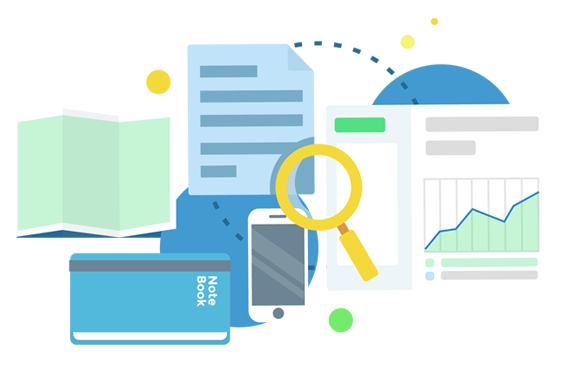
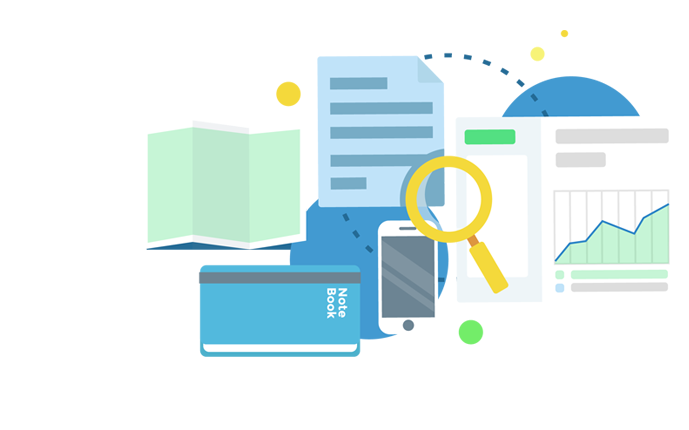
工程咨询首页动效完成

diff --git a/WEB-INF/t/cms/gczx/gczx/index/index.html b/WEB-INF/t/cms/gczx/gczx/index/index.html
@@ -11,6 +11,7 @@
 <script src="${resSys}/front.js" type="text/javascript"></script>
 <script type="text/javascript" src="/${res}/js/jquery.SuperSlide.js"></script>
 <link href="/${res}/css/index.css" rel="stylesheet"/>
+<link href="/${res}/css/donghua.css" rel="stylesheet"/>
 <link href="/${res}/css/icon.css" rel="stylesheet"/>
 <link rel="stylesheet" href="/${res}/css/swiper.min.css">
 <script src="/${res}/css/swiper.min.js"></script>
@@ -25,14 +26,14 @@
 <body class="index">
 [#include "../include/top.html"/]
 [#include "../include/header.html"/]
-<div class="banner" id="banner">
+<!--<div class="banner" id="banner">
     <div class="item-w clearfix">
         <div class="item-cnt clearfix" id="itemCnt">
             <div class="item on" style="background-image: url(/${res}/imgs/ad-2.jpg);"></div>
-            <!--<div class="item" style="background-image: url(/${res}/imgs/ad-2.jpg);"></div>-->
+            &lt;!&ndash;<div class="item" style="background-image: url(/${res}/imgs/ad-2.jpg);"></div>&ndash;&gt;
             <div class="item" style="background-image: url(/${res}/imgs/ad-3.jpg);"></div>
             <div class="item" style="background-image: url(/${res}/imgs/ad-4.jpg);"></div>
-            <!--<div class="item" style="background-image: url(/${res}/imgs/ad-5.jpg);"></div>-->
+            &lt;!&ndash;<div class="item" style="background-image: url(/${res}/imgs/ad-5.jpg);"></div>&ndash;&gt;
         </div>
         <div class="arrow arrow-l" id="arrowL"></div>
         <div class="arrow arrow-r" id="arrowR"></div>
@@ -40,8 +41,8 @@
             <div class="progress-bar-dian on"></div>
             <div class="progress-bar-dian"></div>
             <div class="progress-bar-dian"></div>
-           <!-- <div class="progress-bar-dian"></div>
-            <div class="progress-bar-dian"></div>-->
+           &lt;!&ndash; <div class="progress-bar-dian"></div>
+            <div class="progress-bar-dian"></div>&ndash;&gt;
         </div>
     </div>
 </div>
@@ -72,9 +73,160 @@
     idx += 1;
     itemGo();
   });
-</script>
+</script>-->
+<div id="banner">
+    <ul id="banner_img">
+        <li class="item1">
+            <div class="wrapper">
+                <div class="ad_txt">
+                    <h2>咨询研究</h2>
+                    <p>
+                        编制地方区域社会和经济发展规划、行业发展规划、产业发<br /><br />
+                        展规划、专题发展规划，开展新型城镇化、生态保护、农村<br /><br />
+                        产业融合、资源综合利用、大健康、创新创业、旅游等方面<br /><br />
+                        的研究咨询。
+                    </p>
+                </div>
+                <div class="ad_img">
+                    <img src="${res}/imgs/zxyjtu.png" width="506" height="404" alt="" />
+                </div>
+            </div>
+        </li>
+        <li class="item2">
+            <div class="wrapper">
+                <div class="ad_txt">
+                    <h2>专项规划</h2>
+                    <p>
+                        重点产业、扶贫攻坚、城镇化、民生、基础设施建设等各类<br /><br />
+                        专项规划的研究与编制。
+                    </p>
+                </div>
+                <div class="ad_img">
+                    <img src="${res}/imgs/zxghtu.png" width="506" height="404" alt="" />
+                </div>
+            </div>
+        </li>
+        <li class="item3">
+            <div class="wrapper">
+                <div class="ad_txt">
+                    <h2>报告/方案</h2>
+                    <p>
+                        为申报国家专项资金的项目编制可研报告、节能评估报告和<br /><br />
+                        资金申请报告及项目申报材料。<br />
+                    </p>
+                </div>
+                <div class="ad_img">
+                    <img src="${res}/imgs/bgfatu.png" width="506" height="404" alt="" />
+                </div>
+            </div>
+        </li>
+        <li class="item4">
+            <div class="wrapper">
+                <div class="ad_txt">
+                    <h2>工程造价</h2>
+                    <p>
+                        对建设项目工程造价的确定与控制提供专业服务，出具工程<br /><br />
+                        造价咨询报告。
+                    </p>
+                </div>
+                <div class="ad_img">
+                    <img src="${res}/imgs/gczjtu.png" width="506" height="338" alt="" />
+                </div>
+            </div>
+        </li>
+        <li class="item5">
+            <div class="wrapper">
+                <div class="ad_txt">
+                    <h2>科技成果评价</h2>
+                    <p>
+                        公司是国家行政机关认定的科技成果第三方评价试点单位，<br /><br />
+                        依据国家科技部《科技成果评价试点暂行办法》、吉林省<br /><br />
+                        科技成果评价试点工作方案》，为企业提供专业、权威的科<br /><br />
+                        技成果第三方评价。
+                    </p>
+                </div>
+                <div class="ad_img">
+                    <img src="${res}/imgs/kjcgpjtu.png" width="506" height="344" alt="" />
+                </div>
+            </div>
+        </li>
+        <li class="item6">
+            <div class="wrapper">
+                <div class="ad_txt">
+                    <h2>招标代理</h2>
+                    <p>
+                        承担各类工程招标代理；招标范围为货物、服务、咨询及工<br /><br />
+                        程招标的政府采购招标；同时，可从事总投资2亿元人民币<br /><br />
+                        以下（含2亿）的中央投资项目招标代理业务。
+                    </p>
 
-<div class="grid clearfix fwnr">
+                </div>
+                <div class="ad_img">
+                    <img src="${res}/imgs/zbdltu.png" width="506" height="404" alt="" />
+                </div>
+            </div>
+        </li>
+        <li class="item7">
+            <div class="wrapper">
+                <div class="ad_txt">
+                    <h2>众创空间</h2>
+                    <p>
+
+                    </p>
+
+                </div>
+                <div class="ad_img">
+                    <img src="${res}/imgs/zckjtu.png" width="506" height="404" alt="" />
+                </div>
+            </div>
+        </li>
+    </ul>
+    <div id="banner_ctr">
+        <div id="drag_ctr"></div>
+        <ul>
+            <li>咨询研究</li>
+            <li>专项规划</li>
+            <li>报告/方案</li>
+            <li>工程造价</li>
+            <li>科技成果评价</li>
+            <li>招标代理</li>
+            <li>众创空间</li>
+        </ul>
+        <div id="drag_arrow"></div>
+    </div>
+</div>
+<script type="text/javascript">
+    var curIndex = 0;
+    var time = 800;
+    var slideTime = 5000;
+    var adTxt = $("#banner_img>li>div>.ad_txt");
+    var adImg = $("#banner_img>li>div>.ad_img");
+    var int = setInterval("autoSlide()", slideTime);
+    $("#banner_ctr>ul>li[class!='first-item'][class!='last-item']").click(function () {
+        show($(this).index("#banner_ctr>ul>li[class!='first-item'][class!='last-item']"));
+        window.clearInterval(int);
+        int = setInterval("autoSlide()", slideTime);
+    });
+    function autoSlide() {
+        curIndex + 1 >= $("#banner_img>li").size() ? curIndex = -1 : false;
+        show(curIndex + 1);
+    }
+    function show(index) {
+        $.easing.def = "easeOutQuad";
+        $("#drag_ctr,#drag_arrow").stop(false, true).animate({ left: index * 143 }, 300);
+        $("#banner_img>li").eq(curIndex).stop(false, true).fadeOut(time);
+        adTxt.eq(curIndex).stop(false, true).animate({ top: "340px" }, time);
+        adImg.eq(curIndex).stop(false, true).animate({ right: "120px" }, time);
+        setTimeout(function () {
+            $("#banner_img>li").eq(index).stop(false, true).fadeIn(time);
+            adTxt.eq(index).children("p").css({ paddingTop: "50px", paddingBottom: "50px" }).stop(false, true).animate({ paddingTop: "0", paddingBottom: "0" }, time);
+            adTxt.eq(index).css({ top: "0", opacity: "0" }).stop(false, true).animate({ top: "170px", opacity: "1" }, time);
+            adImg.eq(index).css({ right: "-50px", opacity: "0" }).stop(false, true).animate({ right: "10px", opacity: "1" }, time);
+        }, 200)
+        curIndex = index;
+    }
+</script>
+<!--<div class="grid clearfix fwnr">
     <div class="container">
         <div class="tabs">
             <a href="javascript:;" class="active"><i class="iconfont icon-qingdan"></i><span>咨询研究</span></a>
@@ -84,7 +236,7 @@
             <a href="javascript:;"><i class="iconfont icon-guihua"></i><span>科技成果评价</span></a>
             <a href="javascript:;"><i class="iconfont icon-zhaobiao1"></i><span>招标代理</span></a>
             <a href="javascript:;"><i class="iconfont icon-ruku"></i><span>众创空间</span></a>
-            <!--<a href="javascript:;"><i class="iconfont icon-zijin"></i><span>专项资金</span></a>-->
+            &lt;!&ndash;<a href="javascript:;"><i class="iconfont icon-zijin"></i><span>专项资金</span></a>&ndash;&gt;
         </div>
         <div id="tabs-container" class="swiper-container swiper-container-horizontal">
             <div class="swiper-wrapper">
@@ -192,7 +344,7 @@
                         </div>
                     </div>
                 </div>
-                <!--<div class="swiper-slide">
+                &lt;!&ndash;<div class="swiper-slide">
                     <div class="content-slide">
                         <div class="list_fwnr clearfix">
                             <div class="pic"><img src="/${res}/imgs/3zxzj.jpg"></div>
@@ -206,7 +358,7 @@
                             </div>
                         </div>
                     </div>
-                </div>-->
+                </div>&ndash;&gt;
             </div>
         </div>
     </div>
@@ -304,7 +456,7 @@
 
     }
   });
-</script>
+</script>-->
 <!--<div id="banner">
     <ul id="banner_img">
         <li class="item1">

diff --git a/WEB-INF/t/cms/kjzx/kjzx/channel/column_menu_dxal.html b/WEB-INF/t/cms/kjzx/kjzx/channel/column_menu_dxal.html
@@ -1,0 +1,86 @@
+<!DOCTYPE HTML>
+<html>
+<meta name="viewport"
+      content="width=device-width, initial-scale=1.0, maximum-scale=1.0, minimum-scale=1.0, user-scalable=no">
+<meta http-equiv="Content-Type" content="text/html; charset=utf-8"/>
+<meta http-equiv="keywords" content="${channel.keywords!}"/>
+<meta http-equiv="description" content="${channel.description!}"/>
+<title>${channel.title!channel.name} - ${site.name}</title>
+<script src="${resSys}/jquery.js" type="text/javascript"></script>
+<script src="${resSys}/front.js" type="text/javascript"></script>
+<script type="text/javascript" src="/${res}/js/jquery.SuperSlide.js"></script>
+<link type="text/css" rel="stylesheet" href="/${res}/css/index.css"/>
+<link type="text/css" rel="stylesheet" href="/${res}/css/xwzx.css"/>
+<!-- 新闻中心 -->
+<!--[if lt IE 9]>
+<script src="/${res}/js/html5shiv.min.js"></script>
+<script src="/${res}/js/respond.min.js"></script>
+
+<![endif]-->
+<script type="text/javascript">
+    $(function () {
+        Cms.channelViewCount("${base}", "${channel.id}");
+        Cms.siteFlow("${base}", location.href, document.referrer, "${site.config.flowSwitch?string}");
+    });
+    var month = ['Jan', 'Feb', 'Mar', 'Apr', 'May', 'Jun', 'Jul', 'Aug', 'Sept', 'Oct', 'Nov']
+</script>
+<head>
+<body>
+[#include "../include/top.html"/]
+[#include "../include/header.html"/]
+<div class="xwzx clearfix">
+    <div class="banner">
+        <div class="container clearfix">
+            <img src="/${res}/imgs/yjzs-banner.jpg"/>
+        </div>
+    </div>
+    <div class="container clearfix">
+        <div class="toolbar">
+            <div class="crumbs">
+                <a href='${base}/'><i class="icon-home"></i>首页</a> &gt; 业绩展示 &gt;典型案例
+            </div>
+        </div>
+        <div class="cnt-wrapper">
+            <div class="m-cnt">
+                [@cms_content_page orderBy='4' channelId=channel.id count=10 channelOption='0'
+                dateFormat='[dd,MM,yyyy]' currPageClass="currPageClass" norPageClass="norPageClass"]
+                [#list tag_pagination.list as a]
+                <a href="${a.url}" class="cnt-cell">
+                    <div class="bd">
+                        <!-- <div class="date">
+                             <script>
+                               var date = ${a.releaseDate?string(dateFormat)};
+                               document.write('<p class="day">' + date[0] + '</p><p>' + month[date[1] - 1] + '</p><p>' + date[2] + '</p>');
+                             </script>
+                         </div>-->
+                        <div class="data">
+                            <img src="${a.titleImg!site.defImg}"/>
+                        </div>
+                        <div class="mn-cnt">
+                            <div class="txt-1">${a.title}</div>
+                            <div class="txt-2">
+                                <span>发布者: ${a.author!'本站编辑'}</span>
+                                <span>来源: ${a.origin!'本站原创'}</span>
+                            </div>
+                            <div class="txt-3">${a.desc!}</div>
+                        </div>
+                    </div>
+                </a>
+                [/#list]
+                <div class="pagination" style="text-align: center;margin-top: 20px;">
+                    [@cms_pagination sysPage='1'/]
+                </div>
+                [/@cms_content_page]
+            </div>
+            <div class="ad-wrapper">
+                <a href="${base}/kjzx/yjzs/336.jhtml"><img src="/${res}/imgs/ad-3.png"/></a>
+                <a href="${base}/kjzx/yjzs/335.jhtml"><img src="/${res}/imgs/ad-2.png"/></a>
+                <div><img src="/${res}/imgs/ad-1.png"/></div>
+            </div>
+        </div>
+    </div>
+</div>
+[#include "../include/footer.html"/]
+[#include "../include/bottom.html"/]
+</body>
+</html>

diff --git a/r/cms/gczx/gczx/css/donghua.css b/r/cms/gczx/gczx/css/donghua.css
@@ -1,0 +1,30 @@
+@charset "UTF-8";
+html { color: #000; background: #FFF; }
+div, ul, li { margin: 0; padding: 0; }
+img { border: 0; }
+li { list-style: none; }
+body { font-family: Microsoft YaHei,Segoe UI,Tahoma,Arial,Verdana,sans-serif; font-size: 12px; color: #666; background: #fff; }
+.wrapper { width: 986px; margin: 0 auto; position: relative; }
+#banner { width: 100%; height: 650px; background: #000; overflow: hidden; position: relative; }
+#banner_img { display: block; position: relative; }
+#banner_img li { position: absolute; top: 0; left: 0; width: 100%; height: 650px; background-position: center; background-size: cover; display: none; }
+/*ñͼƬ-------ʼ*/
+#banner_img li.item1 { background-image: url(../imgs/zxyjbg.png); display: block; }
+#banner_img li.item2 { background-image: url(../imgs/zxghbg.png); }
+#banner_img li.item3 { background-image: url(../imgs/bgfabg.png); }
+#banner_img li.item4 { background-image: url(../imgs/gczjbg.png); }
+#banner_img li.item5 { background-image: url(../imgs/kjcgpj.png); }
+#banner_img li.item6 { background-image: url(../imgs/zbdlbg.png); }
+#banner_img li.item7 { background-image: url(../imgs/zckjbg.png); }
+/*ñͼƬ--------*/
+#banner_img .ad_img { position: absolute; right: 10px; top: 80px; width: 506px; height: 404px; }
+#banner_img .ad_txt { position: absolute; left: 10px; top: 170px; color: #fff; text-shadow: 1px 1px rgba(51,51,51,0.3); }
+#banner_img .ad_txt h2 { font: bold 36px/60px Microsoft YaHei; }
+#banner_img .ad_txt a { display: block; width: 100px; height: 25px; line-height: 25px; text-align: center; margin-top: 10px; background: #fff; color: #666; text-decoration: none; text-shadow: none; }
+#banner_ctr { position: absolute; width: 1001px; height: 122px; margin-left: -480px; left: 50%; bottom: 40px; z-index: 1; }
+#banner_ctr ul { width: 1001px; height: 122px; background: url(../imgs/serv_ico.png) center no-repeat; font-size: 0; line-height: 0; position: relative;background-size: contain;}
+#banner_ctr li { display: block; float: left; width: 115px; height: 122px; cursor: pointer;    padding: 0 14px;}
+#banner_ctr li.first-item { background: #fff; width: 20px; -webkit-border-radius: 20px 0 0 20px; -moz-border-radius: 20px 0 0 20px; border-radius: 20px 0 0 20px; cursor: default; }
+#banner_ctr li.last-item { background: #fff; width: 20px; -webkit-border-radius: 0 20px 20px 0; -moz-border-radius: 0 20px 20px 0; border-radius: 0 20px 20px 0; cursor: default; }
+#drag_ctr { position: absolute; top: -14px; left: 0px; width: 115px; height: 156px; -webkit-border-radius: 5px; -moz-border-radius: 5px; border-radius: 5px; bottom: 170px; background: #0084cf;padding: 0 14px;}
+/*#drag_arrow { position: absolute; top: -14px; left: 20px; width: 115px; height: 156px; background: url(../imgs/drag_banner_arrow.gif) center 14px no-repeat;padding: 0 14px;}*/

diff --git a/r/cms/kjzx/kjzx/css/header.css b/r/cms/kjzx/kjzx/css/header.css
@@ -17,8 +17,9 @@
 .sub-nav{height: 60px;line-height: 60px;position: absolute;top: 80px;left: 0;z-index: 48;width: 1200px;}
 .sub-nav .container{height: 100%;position: relative;}
 .sub-nav .menu{display:none;position:absolute;top:0;background-color: #4c4a4f;padding: 0 ;width: 88px;text-align: center;}
+.sub-nav:first-child{display:none;position:absolute;top:0;background-color: #4c4a4f;padding: 0 ;width: 374px;text-align: center;}
 .sub-nav .menu a{word-break:keep-all;color: #ffffff;display: block;float: left;line-height: 30px;height: 30px;width: 100%;}
-.sub-nav .menu a:hover{color:#f63b2e}
+.sub-nav .menu a:hover{color:#005baf}
 .sub-nav .menu.active{display: block;}
 
 @media screen and (max-width: 1199px) and (min-width: 769px){
